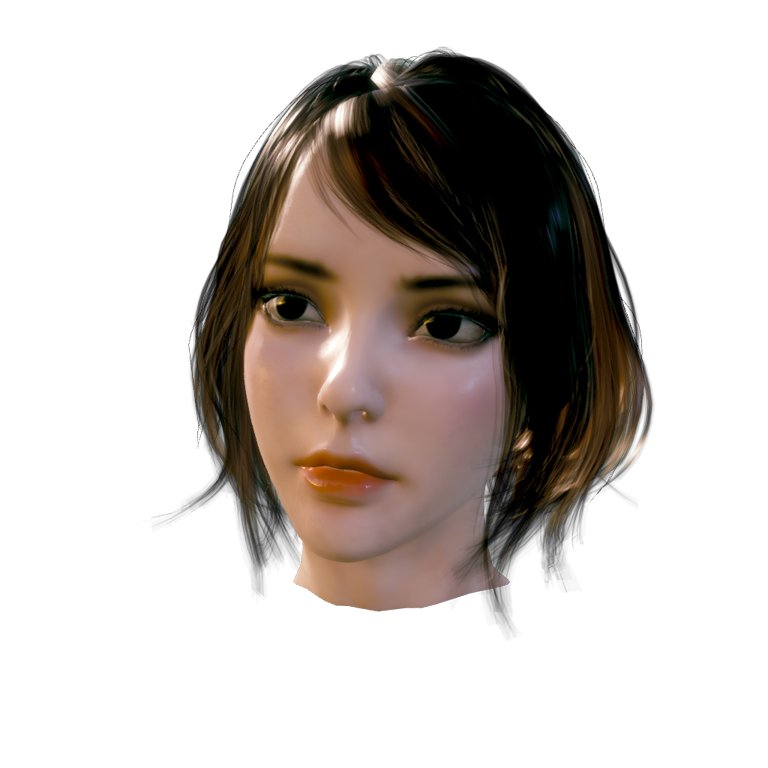
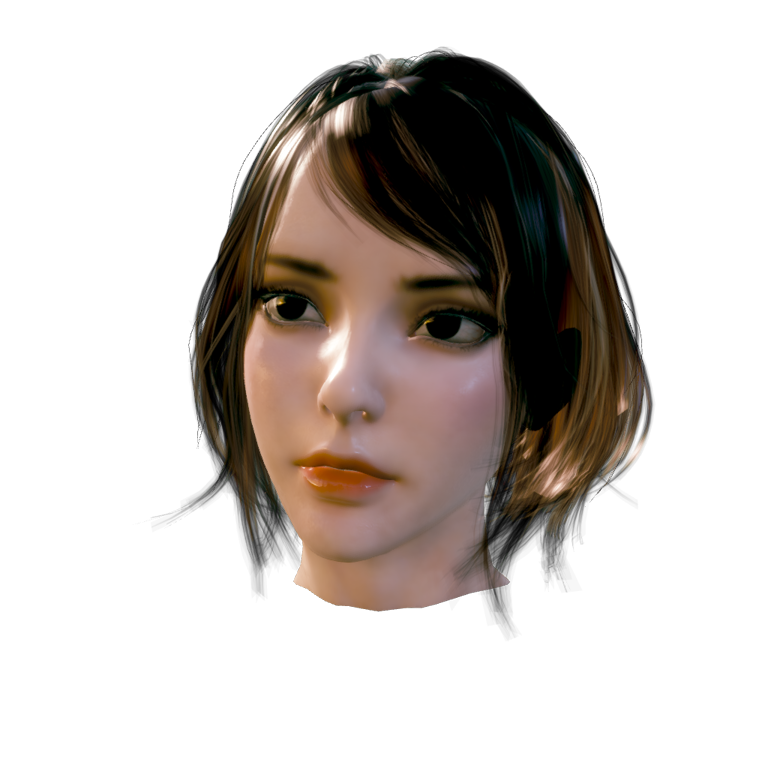
update web site

Changed region(s): [[0.625, 0.125, 0.8438, 0.6875], [0.25, 0.0625, 0.5938, 0.5312], [0.2812, 0.5312, 0.3125, 0.5625]]

diff --git a/docs/.vitepress/theme/components/HeroVideo.vue b/docs/.vitepress/theme/components/HeroVideo.vue
@@ -3,9 +3,10 @@ import { withBase } from 'vitepress'
 
 // Transparent-background assets rendered offline by the `hero_capture`
 // example (see scripts/build-hero-video.ps1). The WebM carries a real alpha
-// channel (VP9) so it blends into both the light and dark themes; the PNG
-// poster is the universal fallback (e.g. Safari, which ignores VP9 alpha).
-const videoSrc = withBase('/media/demo.webm')
+// channel (VP9) so it blends into both the light and dark themes; 
+// Safari does not support VP9 alpha, so the MOV is a fallback for that and similar platforms.
+const videoSrcWebm = withBase('/media/demo.webm')
+const videoSrcMov = withBase('/media/demo.mov')
 const poster = withBase('/images/hero.png')
 </script>
 
@@ -14,14 +15,16 @@ const poster = withBase('/images/hero.png')
     <div class="hero-video__glow" aria-hidden="true"></div>
     <video
       class="hero-video__media"
-      :src="videoSrc"
       :poster="poster"
       autoplay
       muted
       loop
       playsinline
       preload="metadata"
-    ></video>
+    >
+      <source :src="videoSrcMov" type='video/mp4; codecs="hvc1"'>
+      <source :src="videoSrcWebm" type="video/webm">
+  </video>
   </div>
 </template>
 

diff --git a/examples/sponza.rs b/examples/sponza.rs
@@ -66,6 +66,7 @@ impl AppHandler for HttpGltfExample {
 
         scene.active_camera = Some(cam_node_id);
 
+        // let url = format!("{}Sponza/glTF/Sponza.gltf", ASSET_PATH);
         let url = "https://raw.githubusercontent.com/KhronosGroup/glTF-Sample-Assets/refs/heads/main/Models/Sponza/glTF/Sponza.gltf";
         println!("Loading glTF model from network...");
         let model_prefab = engine.assets.load_gltf(url);

diff --git a/docs/en/index.md b/docs/en/index.md
@@ -4,8 +4,8 @@ layout: home
 
 hero:
   name: "Myth Engine"
-  text: "Building the Rendering Engine for the AI Era"
-  tagline: A cross-platform modern graphics architecture designed for next-gen real-time 3D interactions
+  text: "Next-Gen Rendering in Rust"
+  tagline: Lightweight and cross-platform. Powering real-time 3D and intelligent interactions.
   image:
     src: /images/hero.png
     alt: Myth Engine

diff --git a/docs/index.md b/docs/index.md
@@ -4,8 +4,8 @@ layout: home
 
 hero:
   name: "Myth Engine"
-  text: "构建AI时代的渲染引擎"
-  tagline: 跨平台现代图形架构，专为下一代实时 3D 交互设计
+  text: "Rust 原生的下一代渲染引擎"
+  tagline: 轻量且跨平台，为实时 3D 与智能交互提供纯粹动力。
   image:
     src: /images/hero.png
     alt: Myth Engine